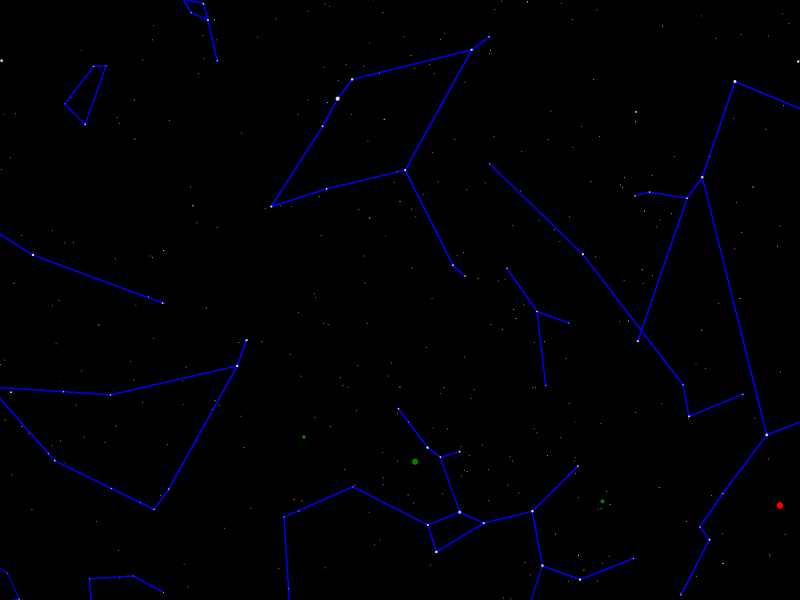
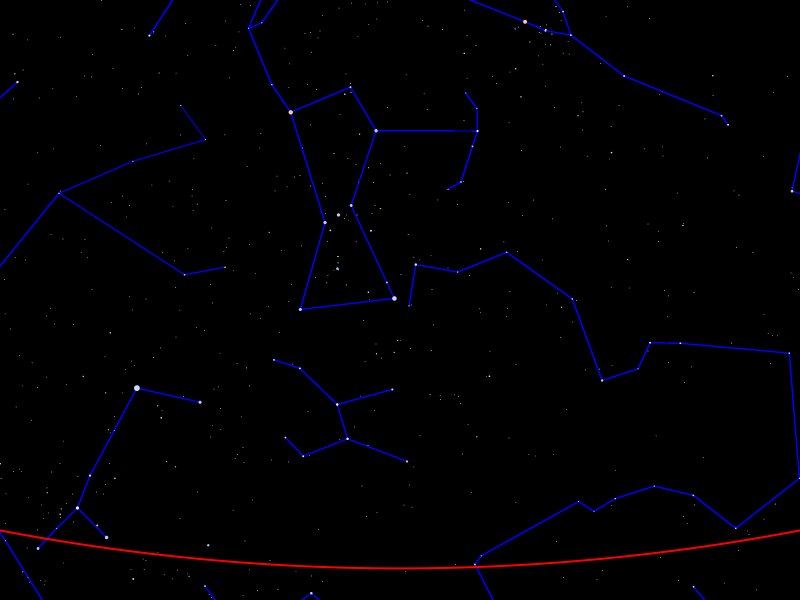
début étape 8

diff --git a/src/ch/epfl/rigel/gui/SkyCanvasPainter.java b/src/ch/epfl/rigel/gui/SkyCanvasPainter.java
@@ -102,17 +102,16 @@ public final class SkyCanvasPainter {
     }
 
     public void drawHorizon(StereographicProjection projection, Transform planeToCanvas, HorizontalCoordinates hor){
-        /*ctx.setStroke(red);
+        ctx.setStroke(red);
         ctx.setLineWidth(2);
         CartesianCoordinates coordinates = projection.circleCenterForParallel(HorizontalCoordinates.of(0,0));
         double[] transformedCoordinates = {coordinates.x(), coordinates.y()};
+        System.out.println(transformedCoordinates[0]);
+        System.out.println(transformedCoordinates[1]);
         planeToCanvas.transform2DPoints(transformedCoordinates, 0, transformedCoordinates, 0, 1);
-        //double radius = projection.circleRadiusForParallel(HorizontalCoordinates.of(0,0));*/
-
-        double radius = 3100;
-        ctx.setStroke(Color.RED);
-        ctx.setLineWidth(2);
-        ctx.strokeOval(400-radius/2, -1000-radius/2, radius, radius);
+        //double r = projection.circleRadiusForParallel(HorizontalCoordinates.of(0,0));
+        double radius = 4250;
+        ctx.strokeOval(transformedCoordinates[0]-radius/2, transformedCoordinates[1]-radius/2, radius, radius);
     }
 
 

diff --git a/test/ch/epfl/rigel/gui/SkyCanvasPainterTest.java b/test/ch/epfl/rigel/gui/SkyCanvasPainterTest.java
@@ -42,9 +42,9 @@ public final class SkyCanvasPainterTest extends Application {
 
 
             ZonedDateTime when =
-                    ZonedDateTime.parse("2020-02-17T10:30:00+01:00");
+                    ZonedDateTime.parse("2020-02-17T20:17:08+01:00");
             GeographicCoordinates where =
-                    GeographicCoordinates.ofDeg(6.63, 46.52);
+                    GeographicCoordinates.ofDeg(6.57, 46.52);
             HorizontalCoordinates projCenter =
                     HorizontalCoordinates.ofDeg(186, 35);
             StereographicProjection projection =
@@ -65,7 +65,7 @@ public final class SkyCanvasPainterTest extends Application {
             painter.drawPlanets(sky, projection, planeToCanvas);
             painter.drawSun(sky, projection, planeToCanvas);
             painter.drawMoon(sky, projection, planeToCanvas);
-            //painter.drawHorizon(projection, planeToCanvas, projCenter);
+            painter.drawHorizon(projection, planeToCanvas, projCenter);
 
             WritableImage fxImage =
                     canvas.snapshot(null, null);
